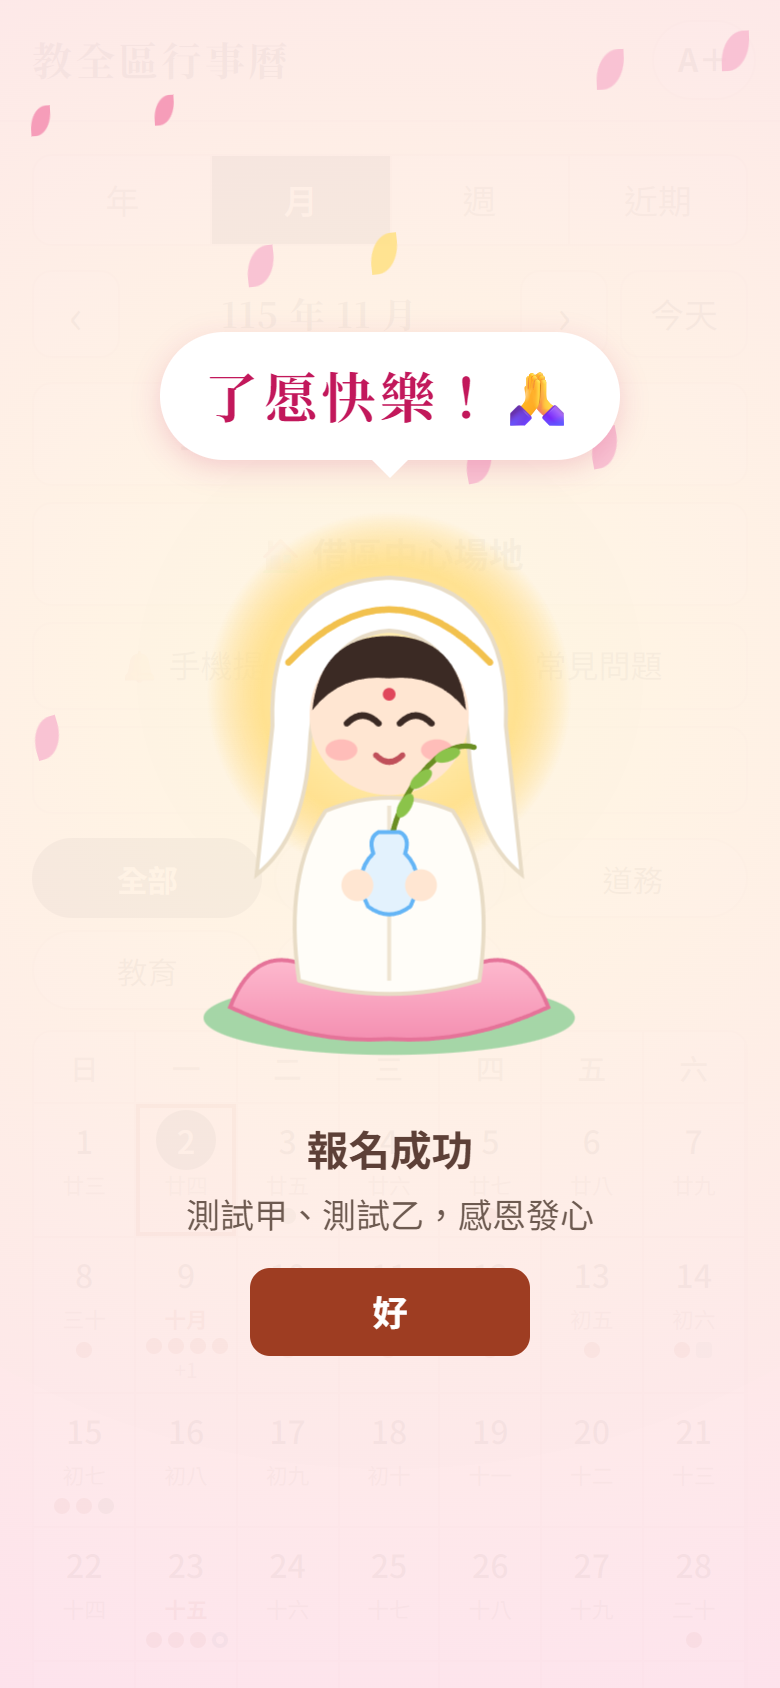
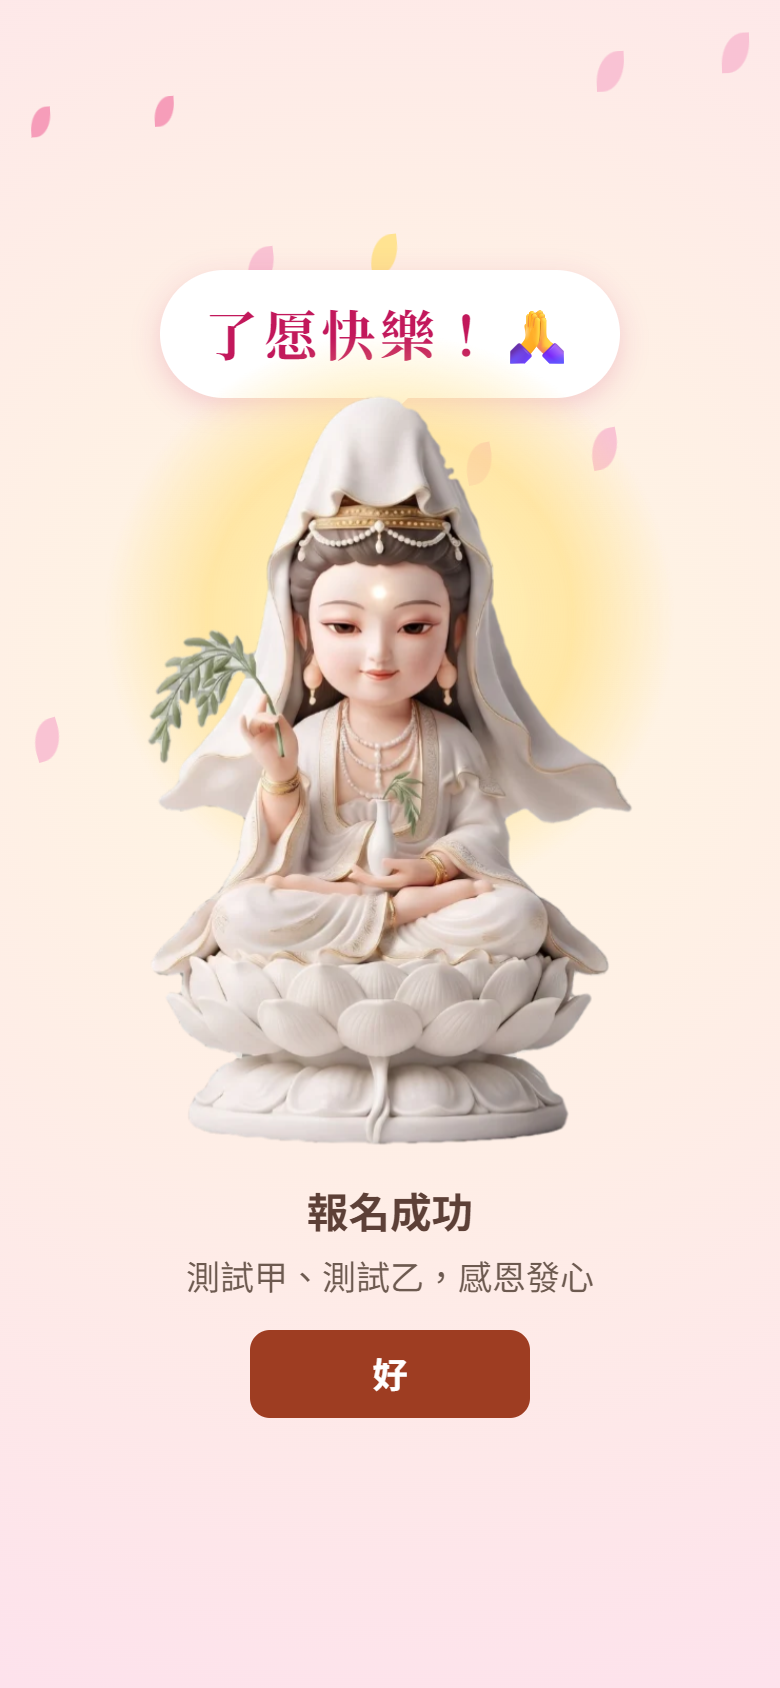
報名成功的觀世音菩薩換成使用者提供的圖（去背）

Changed region(s): [[0.1846, 0.154, 0.8308, 0.8626]]

diff --git a/index.html b/index.html
@@ -19,7 +19,7 @@
   <link rel="preconnect" href="https://fonts.googleapis.com">
   <link rel="preconnect" href="https://fonts.gstatic.com" crossorigin>
   <link href="https://fonts.googleapis.com/css2?family=Noto+Sans+TC:wght@400;500;700&family=Noto+Serif+TC:wght@600;700&display=swap" rel="stylesheet">
-  <link rel="stylesheet" href="css/app.css?v=20261102w">
+  <link rel="stylesheet" href="css/app.css?v=20261102x">
   <script>try { var t = localStorage.getItem('duty-calendar:text-size'); if (t === 'l' || t === 'xl') document.documentElement.classList.add('text-' + t); } catch (e) {}</script>
 </head>
 <body class="splash-on">
@@ -111,57 +111,57 @@
   <script src="https://cdn.jsdelivr.net/npm/fullcalendar@6.1.21/index.global.min.js"></script>
   <script src="https://cdn.jsdelivr.net/npm/@fullcalendar/core@6.1.21/locales/zh-tw.global.min.js"></script>
   <!-- 改了 js、css 後把 ?v= 的日期換新，手機才不會用到舊的檔案（GitHub Pages 會快取 10 分鐘） -->
-  <script src="js/site.js?v=20261102w"></script>
-  <script src="js/config.js?v=20261102w"></script>
-  <script src="js/api.js?v=20261102w"></script>
-  <script src="js/format.js?v=20261102w"></script>
-  <script src="js/lunar-util.js?v=20261102w"></script>
-  <script src="js/date-list.js?v=20261102w"></script>
-  <script src="js/share.js?v=20261102w"></script>
-  <script src="js/addcal.js?v=20261102w"></script>
-  <script src="js/duty-cache.js?v=20261102w"></script>
-  <script src="js/calendar.js?v=20261102w"></script>
-  <script src="js/confirm.js?v=20261102w"></script>
-  <script src="js/reschedule.js?v=20261102w"></script>
-  <script src="js/signup.js?v=20261102w"></script>
-  <script src="js/duty-images.js?v=20261102w"></script>
-  <script src="js/roster-grid.js?v=20261102w"></script>
-  <script src="js/grid-page.js?v=20261102w"></script>
-  <script src="js/grid-image.js?v=20261102w"></script>
-  <script src="js/celebrate.js?v=20261102w"></script>
-  <script src="js/duty.js?v=20261102w"></script>
-  <script src="js/mine.js?v=20261102w"></script>
-  <script src="js/venue-hours.js?v=20261102w"></script>
-  <script src="js/venue.js?v=20261102w"></script>
-  <script src="js/push.js?v=20261102w"></script>
-  <script src="js/admin.js?v=20261102w"></script>
-  <script src="js/admin-pages.js?v=20261102w"></script>
-  <script src="js/draft-editor.js?v=20261102w"></script>
-  <script src="js/group-fair.js?v=20261102w"></script>
-  <script src="js/admin-duties.js?v=20261102w"></script>
-  <script src="js/admin-accounts.js?v=20261102w"></script>
-  <script src="js/import-parse.js?v=20261102w"></script>
-  <script src="js/admin-import.js?v=20261102w"></script>
-  <script src="js/admin-people.js?v=20261102w"></script>
-  <script src="js/stats-calc.js?v=20261102w"></script>
-  <script src="js/edu-stats.js?v=20261102w"></script>
-  <script src="js/admin-goals.js?v=20261102w"></script>
-  <script src="js/admin-venue.js?v=20261102w"></script>
-  <script src="js/admin-push.js?v=20261102w"></script>
-  <script src="js/tutorial.js?v=20261102w"></script>
-  <script src="js/help.js?v=20261102w"></script>
-  <script src="js/rollcall.js?v=20261102w"></script>
-  <script src="js/stats-export.js?v=20261102w"></script>
-  <script src="js/repair.js?v=20261102w"></script>
-  <script src="js/member-stats.js?v=20261102w"></script>
-  <script src="js/admin-stats.js?v=20261102w"></script>
-  <script src="js/admin-report.js?v=20261102w"></script>
-  <script src="js/admin-recent-signups.js?v=20261102w"></script>
-  <script src="js/admin-notice.js?v=20261102w"></script>
-  <script src="js/admin-notify.js?v=20261102w"></script>
-  <script src="js/history-parse.js?v=20261102w"></script>
-  <script src="js/admin-history.js?v=20261102w"></script>
-  <script src="js/easy-mode.js?v=20261102w"></script>
-  <script src="js/app.js?v=20261102w"></script>
+  <script src="js/site.js?v=20261102x"></script>
+  <script src="js/config.js?v=20261102x"></script>
+  <script src="js/api.js?v=20261102x"></script>
+  <script src="js/format.js?v=20261102x"></script>
+  <script src="js/lunar-util.js?v=20261102x"></script>
+  <script src="js/date-list.js?v=20261102x"></script>
+  <script src="js/share.js?v=20261102x"></script>
+  <script src="js/addcal.js?v=20261102x"></script>
+  <script src="js/duty-cache.js?v=20261102x"></script>
+  <script src="js/calendar.js?v=20261102x"></script>
+  <script src="js/confirm.js?v=20261102x"></script>
+  <script src="js/reschedule.js?v=20261102x"></script>
+  <script src="js/signup.js?v=20261102x"></script>
+  <script src="js/duty-images.js?v=20261102x"></script>
+  <script src="js/roster-grid.js?v=20261102x"></script>
+  <script src="js/grid-page.js?v=20261102x"></script>
+  <script src="js/grid-image.js?v=20261102x"></script>
+  <script src="js/celebrate.js?v=20261102x"></script>
+  <script src="js/duty.js?v=20261102x"></script>
+  <script src="js/mine.js?v=20261102x"></script>
+  <script src="js/venue-hours.js?v=20261102x"></script>
+  <script src="js/venue.js?v=20261102x"></script>
+  <script src="js/push.js?v=20261102x"></script>
+  <script src="js/admin.js?v=20261102x"></script>
+  <script src="js/admin-pages.js?v=20261102x"></script>
+  <script src="js/draft-editor.js?v=20261102x"></script>
+  <script src="js/group-fair.js?v=20261102x"></script>
+  <script src="js/admin-duties.js?v=20261102x"></script>
+  <script src="js/admin-accounts.js?v=20261102x"></script>
+  <script src="js/import-parse.js?v=20261102x"></script>
+  <script src="js/admin-import.js?v=20261102x"></script>
+  <script src="js/admin-people.js?v=20261102x"></script>
+  <script src="js/stats-calc.js?v=20261102x"></script>
+  <script src="js/edu-stats.js?v=20261102x"></script>
+  <script src="js/admin-goals.js?v=20261102x"></script>
+  <script src="js/admin-venue.js?v=20261102x"></script>
+  <script src="js/admin-push.js?v=20261102x"></script>
+  <script src="js/tutorial.js?v=20261102x"></script>
+  <script src="js/help.js?v=20261102x"></script>
+  <script src="js/rollcall.js?v=20261102x"></script>
+  <script src="js/stats-export.js?v=20261102x"></script>
+  <script src="js/repair.js?v=20261102x"></script>
+  <script src="js/member-stats.js?v=20261102x"></script>
+  <script src="js/admin-stats.js?v=20261102x"></script>
+  <script src="js/admin-report.js?v=20261102x"></script>
+  <script src="js/admin-recent-signups.js?v=20261102x"></script>
+  <script src="js/admin-notice.js?v=20261102x"></script>
+  <script src="js/admin-notify.js?v=20261102x"></script>
+  <script src="js/history-parse.js?v=20261102x"></script>
+  <script src="js/admin-history.js?v=20261102x"></script>
+  <script src="js/easy-mode.js?v=20261102x"></script>
+  <script src="js/app.js?v=20261102x"></script>
 </body>
 </html>

diff --git a/js/celebrate.js b/js/celebrate.js
@@ -1,51 +1,21 @@
-// 報名成功的全螢幕祝福：可愛的小觀世音菩薩（坐蓮花、拿淨瓶楊柳）說「了愿快樂」，飄蓮花瓣；點一下或按「好」關掉（2026/11/2）。
+// 報名成功的全螢幕祝福：小觀世音菩薩（img/guanyin.webp）說「了愿快樂」，飄蓮花瓣；點一下或按「好」關掉（2026/11/2）。
 (function () {
   'use strict';
 
   const PETALS = 14;
 
-  // 小觀世音菩薩（SVG，自己畫的；顏色固定，深色模式也一樣）
-  const GUANYIN = `
-    <svg class="celebrate-art" viewBox="0 0 200 240" role="img" aria-label="小觀世音菩薩">
-      <defs>
-        <radialGradient id="cg-halo" cx="50%" cy="50%" r="50%">
-          <stop offset="0" stop-color="#fff6c9"/><stop offset=".7" stop-color="#ffe08a"/><stop offset="1" stop-color="#ffd166" stop-opacity="0"/>
-        </radialGradient>
-        <linearGradient id="cg-lotus" x1="0" y1="0" x2="0" y2="1">
-          <stop offset="0" stop-color="#ffc2d4"/><stop offset="1" stop-color="#f48fb1"/>
-        </linearGradient>
-      </defs>
-      <circle class="celebrate-halo" cx="100" cy="92" r="66" fill="url(#cg-halo)"/>
-      <!-- 蓮花座 -->
-      <ellipse cx="100" cy="214" rx="70" ry="14" fill="#a5d6a7"/>
-      <path d="M40 210 Q50 184 72 196 Q80 178 100 192 Q120 178 128 196 Q150 184 160 210 Q130 224 100 222 Q70 224 40 210Z" fill="url(#cg-lotus)" stroke="#e57399" stroke-width="1.5"/>
-      <path d="M72 196 Q86 206 100 192 Q114 206 128 196" fill="none" stroke="#e57399" stroke-width="1.5"/>
-      <!-- 白衣 -->
-      <path d="M66 200 Q60 160 76 136 Q100 126 124 136 Q140 160 134 200 Q100 210 66 200Z" fill="#fffdf8" stroke="#e8dcc6" stroke-width="1.5"/>
-      <path d="M100 134 L100 200" stroke="#efe5d2" stroke-width="1.5"/>
-      <!-- 頭紗（披到肩膀） -->
-      <path d="M56 104 Q54 50 100 48 Q146 50 144 104 L150 160 Q132 146 130 112 Q128 70 100 68 Q72 70 70 112 Q68 146 50 160Z" fill="#ffffff" stroke="#e8dcc6" stroke-width="1.5"/>
-      <path d="M62 80 Q100 40 138 80" fill="none" stroke="#f2c14e" stroke-width="2.5" stroke-linecap="round"/>
-      <!-- 臉 -->
-      <circle cx="100" cy="100" r="30" fill="#ffe6d2"/>
-      <!-- 瀏海、髮髻 -->
-      <path d="M71 98 Q74 70 100 70 Q126 70 129 98 Q118 84 100 86 Q82 84 71 98Z" fill="#3b2a24"/>
-      <circle cx="100" cy="92" r="2.4" fill="#e0475b"/>
-      <!-- 閉眼微笑 -->
-      <path d="M84 103 q6 -6 12 0" fill="none" stroke="#3b2a24" stroke-width="2.4" stroke-linecap="round"/>
-      <path d="M104 103 q6 -6 12 0" fill="none" stroke="#3b2a24" stroke-width="2.4" stroke-linecap="round"/>
-      <ellipse cx="82" cy="113" rx="6" ry="4" fill="#ffb3b3" opacity=".8"/>
-      <ellipse cx="118" cy="113" rx="6" ry="4" fill="#ffb3b3" opacity=".8"/>
-      <path d="M95 115 q5 5 10 0" fill="none" stroke="#c0505a" stroke-width="2.2" stroke-linecap="round"/>
-      <!-- 淨瓶與楊柳 -->
-      <path class="celebrate-willow" d="M100 150 Q104 128 118 116 Q126 110 132 112" fill="none" stroke="#6b8e23" stroke-width="2" stroke-linecap="round"/>
-      <ellipse cx="112" cy="124" rx="5" ry="2.4" transform="rotate(-40 112 124)" fill="#8bc34a"/>
-      <ellipse cx="122" cy="115" rx="5" ry="2.4" transform="rotate(-20 122 115)" fill="#8bc34a"/>
-      <ellipse cx="106" cy="134" rx="5" ry="2.4" transform="rotate(-60 106 134)" fill="#8bc34a"/>
-      <path d="M94 152 Q92 146 96 144 L104 144 Q108 146 106 152 Q114 160 108 172 Q100 178 92 172 Q86 160 94 152Z" fill="#e3f2fd" stroke="#64b5f6" stroke-width="1.5"/>
-      <circle cx="88" cy="164" r="6" fill="#ffe6d2"/>
-      <circle cx="112" cy="164" r="6" fill="#ffe6d2"/>
-    </svg>`;
+  // 小觀世音菩薩：img/guanyin.webp（白衣、坐白蓮花、拿楊柳與淨瓶；已去背，2026/11/2 換成這張）
+  const ART = 'img/guanyin.webp';
+  const GUANYIN = '<div class="celebrate-glow"><img class="celebrate-art" src="' + ART + '" alt="小觀世音菩薩" width="471" height="720"></div>';
+
+  /** 先下載圖片（打開報名表時呼叫），報名成功時馬上出現 */
+  let preloaded = false;
+  function preload() {
+    if (preloaded) return;
+    preloaded = true;
+    const img = new Image();
+    img.src = ART;
+  }
 
   let current = null;
 
@@ -87,5 +57,5 @@
     el.querySelector('.celebrate-ok').focus({ preventScroll: true });
   }
 
-  window.Celebrate = { show, close };
+  window.Celebrate = { show, close, preload };
 })();

diff --git a/css/app.css b/css/app.css
@@ -2518,10 +2518,11 @@ button.veg-chip:hover { border-color: var(--ok); }
 }
 .celebrate.is-leaving { animation: celebrate-out .3s ease-in forwards; }
 .celebrate-card { position: relative; text-align: center; max-width: 360px; width: 100%; }
-.celebrate-art { width: min(68vw, 280px); height: auto; display: block; margin: 0 auto; animation: celebrate-float 3s ease-in-out infinite; }
-.celebrate-halo { animation: celebrate-glow 2.4s ease-in-out infinite; transform-origin: 100px 92px; }
+.celebrate-glow { position: relative; display: flex; justify-content: center; animation: celebrate-float 3s ease-in-out infinite; }
+.celebrate-glow::before { content: ''; position: absolute; left: 50%; top: 30%; width: min(70vw, 300px); aspect-ratio: 1; transform: translate(-50%, -50%); border-radius: 50%; background: radial-gradient(circle, #fff6c9 0, rgba(255, 224, 138, .75) 45%, rgba(255, 209, 102, 0) 70%); animation: celebrate-glow 2.4s ease-in-out infinite; }
+.celebrate-art { position: relative; height: min(46vh, 380px); width: auto; display: block; }
 .celebrate-bubble {
-  display: inline-block; position: relative; margin-bottom: 4px;
+  display: inline-block; position: relative; margin-bottom: 14px;
   padding: 10px 22px; border-radius: 999px;
   background: #fff; color: #c2185b; box-shadow: 0 4px 14px rgba(194, 24, 91, .18);
   font-family: var(--serif); font-size: 1.7rem; font-weight: 700; letter-spacing: .08em;
@@ -2546,13 +2547,13 @@ button.veg-chip:hover { border-color: var(--ok); }
 @keyframes celebrate-out { to { opacity: 0; } }
 @keyframes celebrate-pop { from { transform: scale(.3); opacity: 0; } to { transform: scale(1); opacity: 1; } }
 @keyframes celebrate-float { 0%, 100% { transform: translateY(0); } 50% { transform: translateY(-8px); } }
-@keyframes celebrate-glow { 0%, 100% { opacity: .75; transform: scale(1); } 50% { opacity: 1; transform: scale(1.06); } }
+@keyframes celebrate-glow { 0%, 100% { opacity: .75; transform: translate(-50%, -50%) scale(1); } 50% { opacity: 1; transform: translate(-50%, -50%) scale(1.08); } }
 @keyframes celebrate-fall {
   0% { transform: translateY(0) rotate(0); }
   100% { transform: translateY(110vh) translateX(40px) rotate(320deg); }
 }
 @media (prefers-reduced-motion: reduce) {
-  .celebrate, .celebrate-art, .celebrate-halo, .celebrate-bubble { animation: none; }
+  .celebrate, .celebrate-glow, .celebrate-glow::before, .celebrate-bubble { animation: none; }
   .celebrate-petals { display: none; }
 }
 

diff --git a/js/duty.js b/js/duty.js
@@ -476,6 +476,7 @@
       return;
     }
     SignupForm.mount(el, d, page.viewDate, onSignedUp);
+    if (window.Celebrate) Celebrate.preload(); // 報名成功的觀世音菩薩圖先下載
     goSignup(el);
   }
 

diff --git a/docs/spec.md b/docs/spec.md
@@ -326,7 +326,7 @@
 - **勤務表單時間可以清除（2026/11/2）**：新增／編輯勤務的開始、結束時間旁邊有「清除」（有填才顯示），按了清空（手機的時間選擇器常常沒有清除鍵）。
 - **勤務整筆搬日期（2026/11/2）**：總管理者在勤務名單管理頁按「📅 整筆搬到別的日期（年份打錯時用）」：一天的勤務連同那天的報名（含已取消）搬到新日期（預設前一年同一天），寫操作紀錄「勤務搬日期」；好幾天的勤務不能用（adminMoveDuty，DutyAdmin.gs）。用來修正舊統計表匯入時年份打錯的紀錄（2025 年統計表的 12 月分頁有 3 筆日期打成 2026 年）。
 - **報名先選佛堂（2026/11/2）**：新增／編輯勤務可勾「🏠 報名時先選佛堂，再點這個佛堂的家人」（勤務分頁「報名選佛堂」欄＝是；同名一起改時跟著了愿項目一起改）。報名頁填名字那一步上面多一排佛堂按鈕（佛堂清單同各佛堂道務目標，記住這支手機上次選的），選了就列出這個佛堂的家人（成員名單啟用中、非待確認，依名字排），點名字直接加入（身分照名單）；名單上沒有的照樣手打按「加入」，記成選的佛堂。沒選佛堂不能加入；從名字提示點到的人用他名單上的佛堂（沒填用選的佛堂）。伺服器也檢查每位都有佛堂。公開 API templeMembers（dutyId、temple）只回名字和身分，而且只有勾了的勤務能用。
-- **報名成功的全螢幕祝福（2026/11/2）**：報名成功後先跳出全螢幕畫面：可愛的小觀世音菩薩（白衣、頭紗、坐蓮花、拿淨瓶楊柳，SVG 自己畫）上面對話框「了愿快樂！🙏」，下面「報名成功」「名字、名字，感恩發心」（超過 3 位寫「等 N 位」）和「好」按鈕，背景飄蓮花瓣；點畫面任何地方、按「好」或 Esc／Enter 關掉，回到勤務頁的報名成功訊息。手機設定減少動態時不飄花瓣、不動。js/celebrate.js。
+- **報名成功的全螢幕祝福（2026/11/2）**：報名成功後先跳出全螢幕畫面：小觀世音菩薩（白衣、頭紗、寶冠、坐白蓮花、拿楊柳與淨瓶；img/guanyin.webp，使用者提供的 AI 圖去背，2026/11/2 換掉原本自己畫的 SVG；打開報名表時先下載）上面對話框「了愿快樂！🙏」，下面「報名成功」「名字、名字，感恩發心」（超過 3 位寫「等 N 位」）和「好」按鈕，背景飄蓮花瓣；點畫面任何地方、按「好」或 Esc／Enter 關掉，回到勤務頁的報名成功訊息。手機設定減少動態時不飄花瓣、不動。js/celebrate.js。
 - **勤務類「活動」不用了愿項目（2026/11/2）**：類別勤務、性質選「活動」（例：總壇運動會觀禮園遊券）時，表單的「了愿項目與名額」和職司表換成跟道務、教育一樣的「名額」（不限／限定人數），存成一個「參加」（最少 0），不用組長職稱、兼任；負責組照樣可選。報名頁不用選了愿項目，直接填名字，壇辦不用選了愿／陪同。原本已經有好幾個了愿項目的活動照舊顯示了愿項目。
 - **登記張數、面額（2026/11/2）**：只設名額的表單（道務、教育、勤務類活動）可勾「報名時填張數（例：園遊券、餐券）」，勾了可填「每張面額（元，可空白）」（勤務分頁「登記張數」「面額」欄）。報名時每張名字卡有「張數 － [N] ＋」（中間可以直接打數字，也可以按＋－；1～99，預設 1，有面額顯示共幾元），存在報名分頁「張數」欄（伺服器檢查 1～99，沒給算 1）。家人們的報名名單每人標「N 張」、上面「共 N 張・M 元」；後台名單每人「N 張・M 元」、「改張數」按鈕（adminSetAttendance tickets，寫操作紀錄），上面「共 N 張・面額 X 元・合計 Y 元」；幫人報名可填張數。「給分壇名單」的文字每個名字後面寫「N張」，那天下一行寫「　共 N 張・M 元」（adminRoster 多回 tickets：名字→張數、price）。
 
